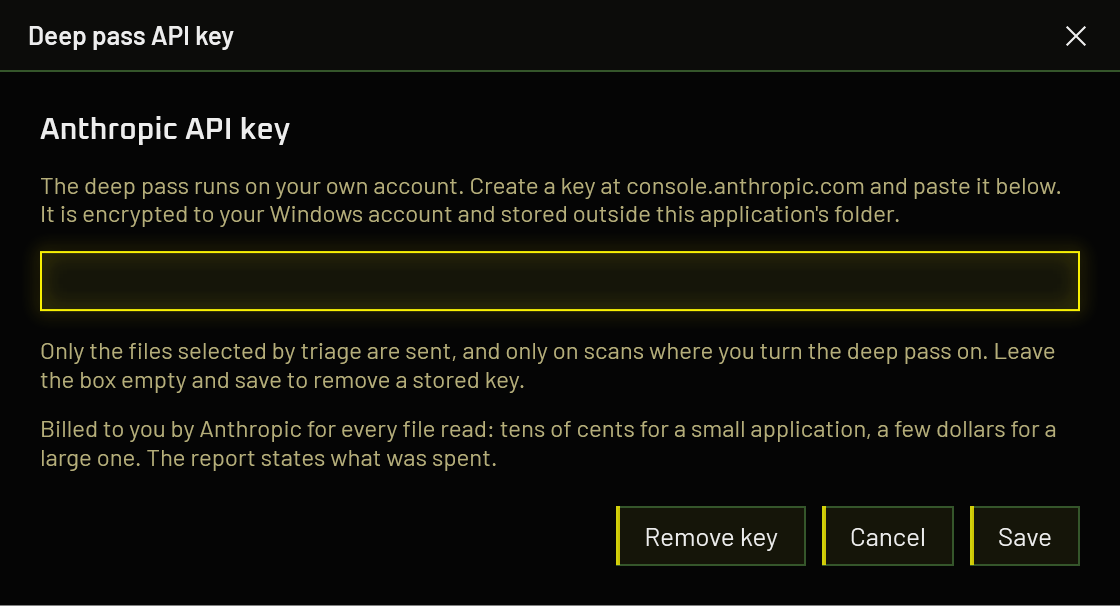
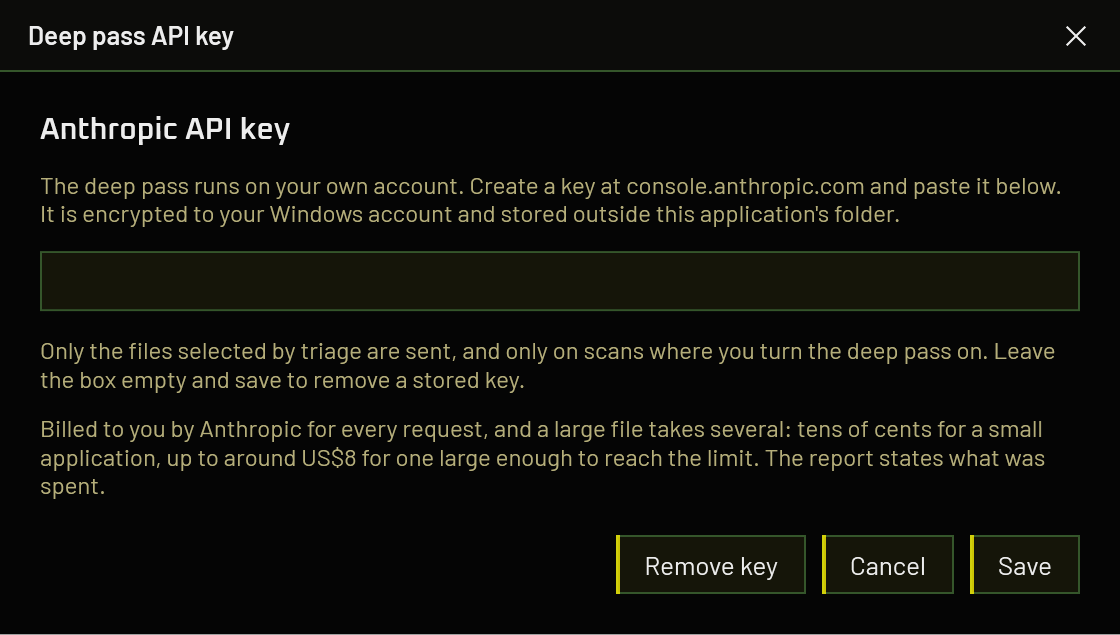
Retake the API key screenshot at the new cost

diff --git a/docs/setup.html b/docs/setup.html
@@ -288,7 +288,7 @@
       </ol>
       <figure>
         <div class="shot" style="--natural:560px">
-          <img src="assets/img/screen-apikey.png" alt="The Halation API key window, with a masked entry field and a note explaining that the key is encrypted to your Windows account and stored outside the application folder." width="1120" height="606" loading="lazy">
+          <img src="assets/img/screen-apikey.png" alt="The Halation API key window, with a masked entry field and a note explaining that the key is encrypted to your Windows account and stored outside the application folder." width="1120" height="635" loading="lazy">
         </div>
         <figcaption class="shot__caption">The key is masked on screen and never written into a report.</figcaption>
       </figure>
